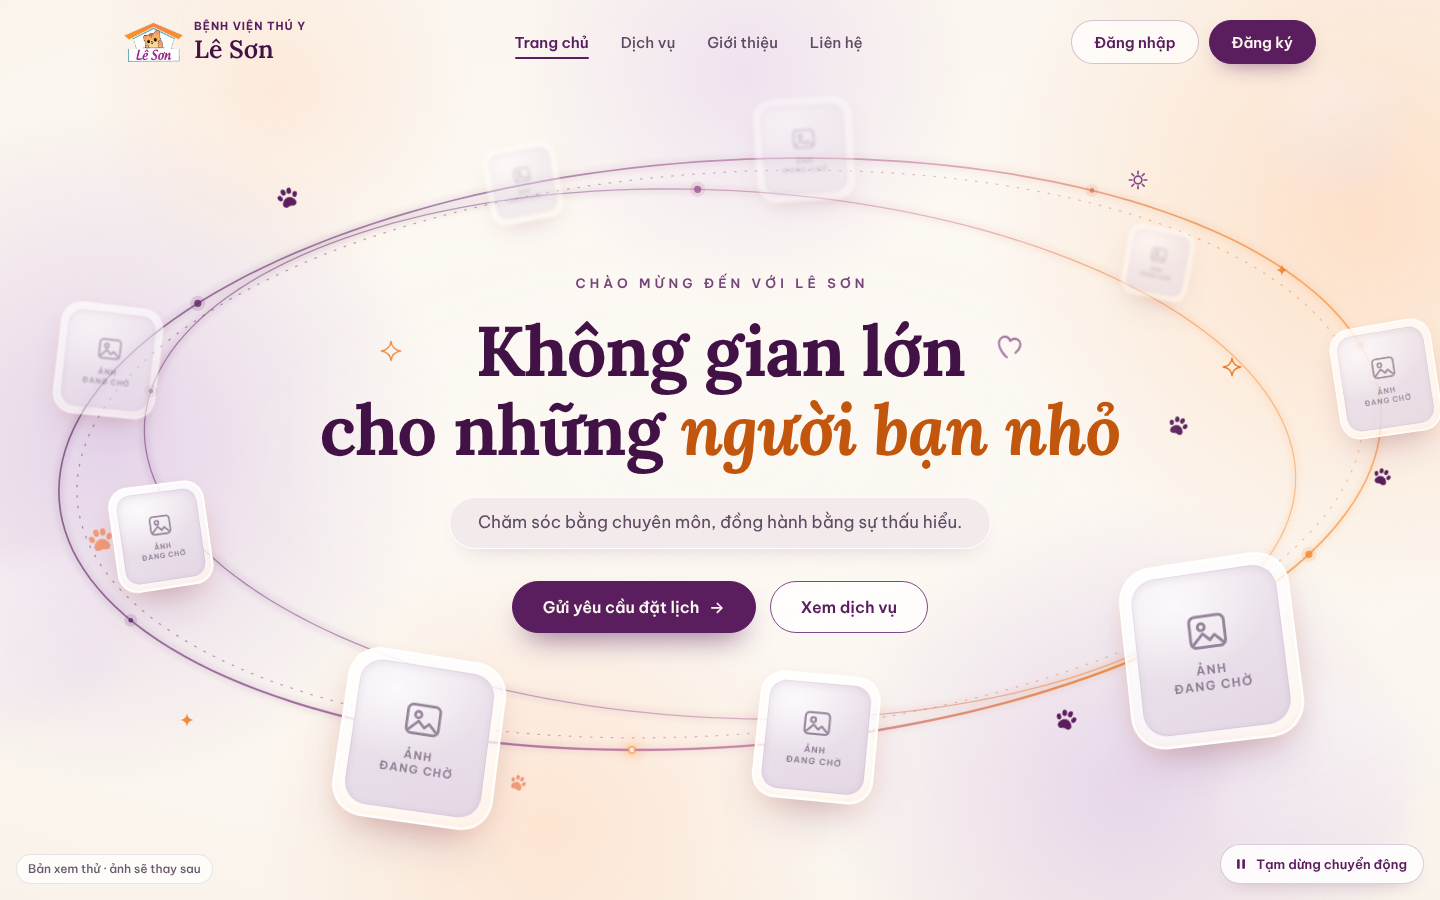
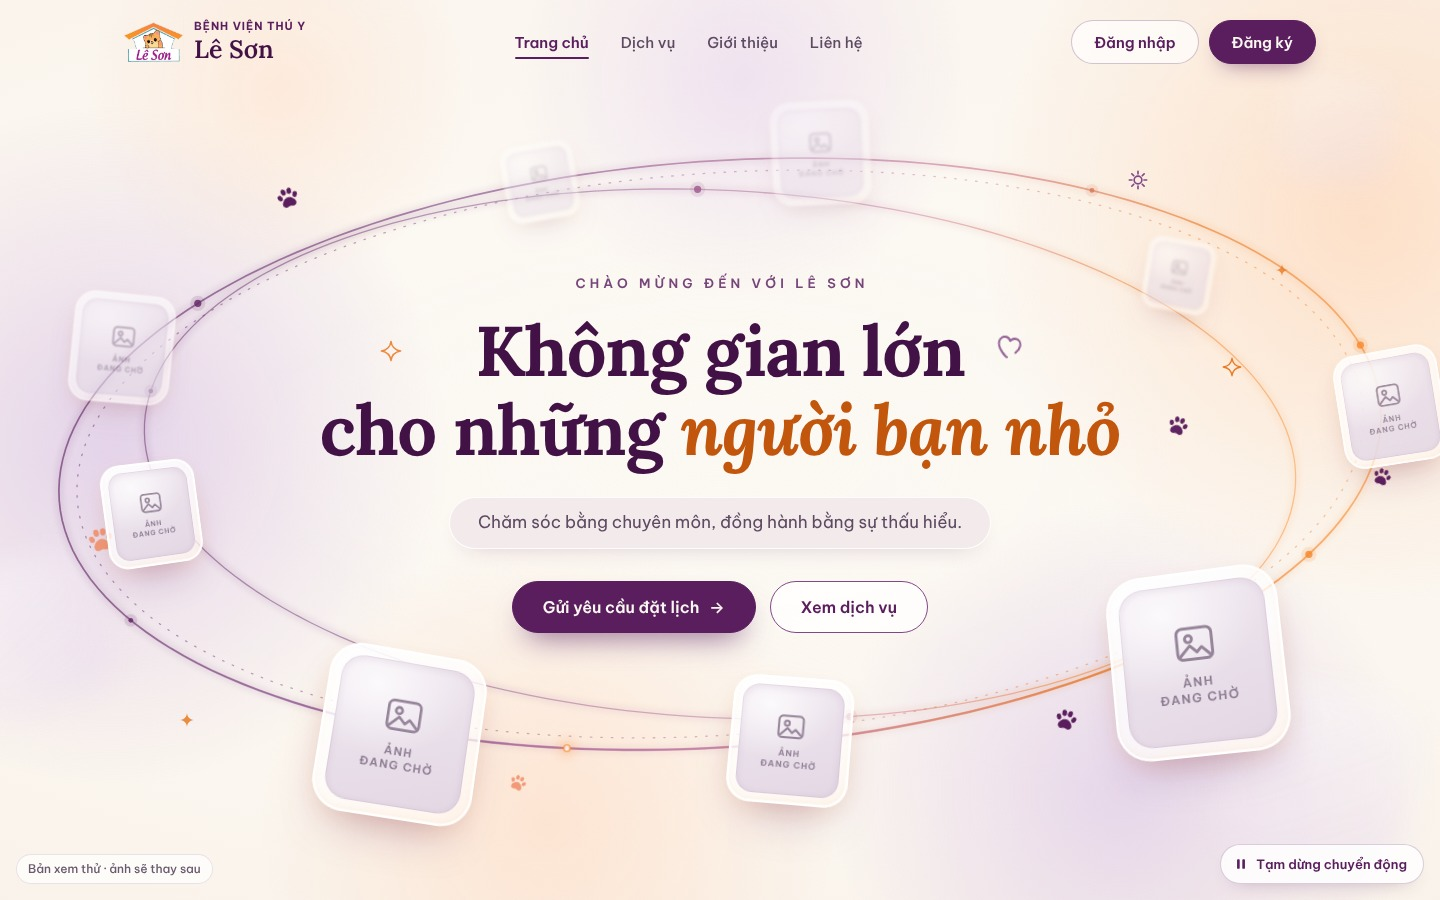
docs: Hero khung anh bay vong ban 2 - khung di theo luong khi luot qua chu
Thay mot khung don le bang hai dong khung doi cho nhau (3 khung moi dong tren desktop,
2 tren mobile). Cap nhat HTML, anh dong, anh tinh va README.

Claude-Session: https://claude.ai/code/session_01RdR2xeeUL4Rz15FkyvBsuM

diff --git a/docs/de-xuat-hero-quy-dao/hero-quy-dao.html b/docs/de-xuat-hero-quy-dao/hero-quy-dao.html
@@ -300,7 +300,7 @@
     content: "";
     position: absolute; z-index: -2;
     inset: -14% -10%;
-    background: radial-gradient(closest-side, rgba(var(--cream-rgb), .8) 0%, rgba(var(--cream-rgb), .6) 50%, rgba(var(--cream-rgb), 0) 100%);
+    background: radial-gradient(closest-side, rgba(var(--cream-rgb), .52) 0%, rgba(var(--cream-rgb), .38) 50%, rgba(var(--cream-rgb), 0) 100%);
     pointer-events: none;
   }
   .burst {
@@ -764,7 +764,7 @@
   var last = null, raf = 0, running = false;
   var reduced = mqReduce.matches;
   var userPaused = false, inView = true;
-  var excActive = null, nextExc = Infinity;
+  var excList = [], excQueue = [], nextExc = Infinity, settleUntil = 0;   // dòng khung đang lướt qua chữ + hàng đợi khung sắp đi theo
   var introSkipped = reduced;
   var introBase = null;      // thời điểm (đồng hồ mô phỏng) khung đầu tiên bay ra
   var readyAt = null;        // thời điểm chữ bắt đầu mở màn (sau khi có phông)
@@ -930,7 +930,7 @@
     if (countChanged) {
       assignPhases();
       frames.forEach(function (f) { f.exc = null; });
-      excActive = null;
+      excList = []; excQueue = [];
     }
 
     // Biến cho trang trí bám theo tiêu đề
@@ -1154,18 +1154,56 @@
     }
     return best;
   }
+  // Hai "dòng" khung đổi chỗ cho nhau: K khung ở mép trái nối đuôi nhau lướt qua sau chữ sang phải,
+  // đồng thời K khung ở mép phải lướt ngược sang trái. Mỗi cặp hoán đổi đúng vị trí nên đội hình luôn cân.
+  function pickStreams(leader, t) {
+    var K = G.mobile ? 2 : 3, la = angleOf(leader, t);
+    var A = frames.filter(function (f) { return f !== leader && f.active; })
+      .map(function (f) { return { f: f, d: mod(la - angleOf(f, t), TAU) }; })
+      .sort(function (x, y) { return x.d - y.d; })
+      .slice(0, K - 1).map(function (c) { return c.f; });
+    A = [leader].concat(A);
+    var used = A.slice(), pairs = [];
+    A.forEach(function (fa) {
+      var want = angleOf(fa, t) + Math.PI, best = null, bs = Infinity;
+      frames.forEach(function (fb) {
+        if (!fb.active || used.indexOf(fb) >= 0) return;
+        var sc = angDist(angleOf(fb, t), want) + (fb.ring === fa.ring ? 0 : 0.5);
+        if (sc < bs) { bs = sc; best = fb; }
+      });
+      if (!best) return;
+      used.push(best);
+      var da = mod(angleOf(best, t) - angleOf(fa, t), TAU);
+      pairs.push({ a: fa, b: best, da: da, db: TAU - da });
+    });
+    return pairs;
+  }
   function updateExcursions(t) {
-    if (excActive && t >= excActive.start + excActive.dur) {
-      excActive.f.phase += excActive.delta;   // nhập lại quỹ đạo ở phía đối diện, liền mạch
-      excActive.f.exc = null;
-      excActive = null;
+    for (var i = excList.length - 1; i >= 0; i--) {
+      var e = excList[i];
+      if (t >= e.start + e.dur) {
+        e.f.phase += e.delta;               // nhập lại quỹ đạo ở phía đối diện, liền mạch
+        e.f.exc = null;
+        excList.splice(i, 1);
+        settleUntil = t + 3;                // sau đợt lướt: đội hình tự giãn lại nhanh hơn một lúc
+      }
     }
-    if (!excActive && t > introEnd() && t >= nextExc) {
-      var f = pickExcursionFrame(t);
-      if (f) {
-        excActive = { f: f, start: t, dur: G.mobile ? 3.0 : 3.6, delta: chooseDelta(f, t) };
-        f.exc = excActive;
-        nextExc = t + 7 + rand() * 5;           // 7–12 giây
+    for (var j = excQueue.length - 1; j >= 0; j--) {
+      var q = excQueue[j];
+      if (t >= q.at) {
+        var ne = { f: q.f, start: t, dur: G.mobile ? 3.0 : 3.6, delta: q.delta };
+        q.f.exc = ne; excList.push(ne); excQueue.splice(j, 1);
+      }
+    }
+    if (!excList.length && !excQueue.length && t > introEnd() && t >= nextExc) {
+      var lead = pickExcursionFrame(t);
+      if (lead) {
+        var lag = G.mobile ? 0.7 : 0.9;
+        pickStreams(lead, t).forEach(function (pr, k) {
+          excQueue.push({ f: pr.a, at: t + k * lag, delta: pr.da });                 // dòng trái → phải
+          excQueue.push({ f: pr.b, at: t + k * lag + lag * 0.5, delta: pr.db });     // dòng phải → trái, lệch nửa nhịp
+        });
+        nextExc = t + 10 + rand() * 3;      // mỗi đợt dài khoảng 6 giây, nghỉ rồi lại có đợt sau
       } else {
         nextExc = t + 0.4;
       }
@@ -1178,10 +1216,11 @@
     var list = frames.filter(function (f) { return f.active; });
     var n = list.length;
     if (n < 2) return;
-    var ex = excActive;
+    var anch = excList.concat(excQueue), ex = anch.length > 0 || t < settleUntil;
     var cur = list.map(function (f) {
-      var isA = !!(ex && ex.f === f);
-      return { f: f, a: isA, s: mod(f.phase + G.speed * t + (isA ? ex.delta : 0), TAU) };
+      var ea = null;
+      for (var k = 0; k < anch.length; k++) if (anch[k].f === f) { ea = anch[k]; break; }
+      return { f: f, a: !!ea, s: mod(f.phase + G.speed * t + (ea ? ea.delta : 0), TAU) };
     }).sort(function (a, b) { return a.s - b.s; });
     var step = TAU / n, base, jA = -1;
     cur.forEach(function (c, j) { if (c.a) jA = j; });
@@ -1198,6 +1237,17 @@
       var d = wrapPi(base + j * step - c.s);
       c.f.phase += clamp(d * gain * dt, -lo, hi);
     });
+    // Chống chồng khung: hai khung kề nhau trên vòng không bao giờ được gần nhau hơn ~65% khoảng đều.
+    var minGap = step * 0.65, push = 0.6 * dt;
+    for (var j2 = 0; j2 < cur.length; j2++) {
+      var A = cur[j2], B = cur[(j2 + 1) % cur.length];
+      if (A === B) continue;
+      var g = mod(B.s - A.s, TAU);
+      if (g >= minGap) continue;
+      var m = Math.min(push, (minGap - g) * 0.5);
+      if (!A.a) A.f.phase -= m;
+      if (!B.a) B.f.phase += m;
+    }
   }
 
   /* ---------- Vòng lặp ---------- */
@@ -1237,7 +1287,7 @@
       stop();
       introSkipped = true;
       frames.forEach(function (f) { f.exc = null; });
-      excActive = null;
+      excList = []; excQueue = [];
       render(simT);               // bố cục tĩnh chọn sẵn: khung nằm trên quỹ đạo, hai khung lớn hai bên tiêu đề
     } else {
       if (introSkipped) beginIntro(simT);   // bật lại chuyển động: không phát lại intro

diff --git a/docs/de-xuat-hero-quy-dao/README.md b/docs/de-xuat-hero-quy-dao/README.md
@@ -1,13 +1,15 @@
-# Đề xuất Hero "khung ảnh bay vòng" (Claude, 15/10/2026)
+# Đề xuất Hero "khung ảnh bay vòng" (Claude, 15/10/2026, bản 2: khung đi theo luồng)
+
+**Bản 2 (theo góp ý chủ dự án: "ảnh di chuyển theo luồng chứ không đơn lẻ khi đi vào giữa"):** khi lướt qua chữ, thay vì một khung, giờ là cả một dòng khung nối đuôi nhau (xem mục "Bản xem thử chạy thế nào"). Hero bản 1 (một khung đơn lẻ) được thay bằng bản này.
 
 **Trạng thái:** bản xem thử làm theo ý tưởng của chủ dự án, **chờ chủ dự án xem và quyết định**. Đây chưa phải yêu cầu cho Antigravity và không thay đổi Hero hiện tại trên `antigravity/design`.
 
 **Xem nhanh:**
-- Ảnh động 14 giây: [xem-truoc-chuyen-dong.webp](xem-truoc-chuyen-dong.webp).
+- Ảnh động 16 giây (dòng khung lướt qua chữ từ khoảng giây 7,4 đến 12,5): [xem-truoc-chuyen-dong.webp](xem-truoc-chuyen-dong.webp).
 - Ảnh tĩnh:
   - [Desktop 1440](01-desktop-1440.png)
-  - [Lúc khung bay qua chữ](02-desktop-1440-khung-bay-qua-chu.png)
-  - [Mobile 390](03-mobile-390.png)
+  - [Lúc dòng khung đang lướt qua chữ](02-desktop-1440-dong-khung-qua-chu.png)
+  - [Mobile 390, 4 thời điểm trong đợt lướt](03-mobile-390-4-thoi-diem.png)
   - [Chế độ giảm chuyển động](04-desktop-1440-giam-chuyen-dong.png)
 - Bản chạy được: [hero-quy-dao.html](hero-quy-dao.html). Tải cả thư mục về rồi mở file này; cần mạng để tải font Google.
 - Ảnh tham khảo của chủ dự án: [anh-tham-khao-chu-du-an.webp](anh-tham-khao-chu-du-an.webp).
@@ -28,9 +30,10 @@ Thời gian tính từ lúc font tải xong. Trang chờ font tối đa 0,7 giâ
 | 0–1 s | Nhãn "CHÀO MỪNG ĐẾN VỚI LÊ SƠN", tiêu đề, câu phụ và hai nút hiện dần. Chưa có khung nào. |
 | 1–2,9 s | Các khung "ẢNH ĐANG CHỜ" bay ra từ phía sau chữ, mỗi khung cách nhau khoảng 0,1 s. |
 | Từ khoảng 3 s | Khung bay vòng liên tục trên hai quỹ đạo elip nghiêng. Khung ở phía sau nhỏ hơn, nhạt và mờ hơn. |
-| Khoảng 7,4 s, sau đó cứ 7–12 s một lần | Một khung bay vòng qua giữa, đi **phía sau** chữ rồi sang phía bên kia, mất khoảng 3,6 s. |
+| Khoảng 7,4 s, sau đó cứ 10–13 s một lần | **Một dòng khung** lướt qua giữa, đi **phía sau** chữ: 3 khung ở mép trái nối đuôi nhau (cách nhau khoảng 0,9 s) sang phải, đồng thời 3 khung ở mép phải lướt ngược sang trái, lệch nửa nhịp. Mỗi khung mất khoảng 3,6 s, cả đợt khoảng 5 s. Trên mobile mỗi dòng 2 khung. |
 
 - Số khung: 9 trên desktop, 8 trên tablet (768–992 px), 6 trên mobile.
+- Hai dòng đi hai đường cong ngược nhau (một dòng cong xuống dưới, một dòng cong lên trên) nên nhìn như hai dòng nước đan nhau phía sau chữ. Các cặp khung đổi chỗ đúng vị trí của nhau nên vòng quỹ đạo luôn cân đối, không bị dồn cục sau đợt lướt.
 - Chữ và nút luôn nằm trên khung. Khung không bắt được chuột hay chạm (`pointer-events: none`).
 
 ## Khác với ảnh tham khảo (cố ý)
@@ -50,9 +53,10 @@ Kiểm bằng Playwright trên Chromium, ngày 15/10/2026. Lượt kiểm cuối
 | Mục | Kết quả |
 |---|---|
 | Thứ tự xuất hiện | Chữ hiện đủ trước khi khung đầu tiên xuất hiện. Đúng ở 1440, 768 và 390. |
-| Chữ và nút luôn nằm trên | Ở 1440, 1024 và 390, lấy mẫu 120 điểm, mỗi 250 ms, trong 20 giây: 0 lần trúng khung. Bấm nút "Gửi yêu cầu đặt lịch" đúng lúc khung đang bay qua vẫn mở `#form-dat-lich`. |
+| Chữ và nút luôn nằm trên | Ở 1440 và 390, lấy mẫu 126 điểm trên chữ và nút trong lúc quỹ đạo và lúc dòng khung đang lướt qua: tất cả đều trúng chữ, không trúng khung. Bản 1 đã bấm thử nút "Gửi yêu cầu đặt lịch" lúc khung bay qua và mở đúng `#form-dat-lich`; bản 2 chỉ đo bằng `elementFromPoint`, chưa bấm lại. |
+| Khung không chồng nhau | Chạy mô phỏng 100 giây ở 1440, 1024 và 390: 0% thời gian có hai khung chồng nhau, trừ chính các khung đang trong đợt lướt, vì chúng gặp nhau phía sau chữ và hơi mờ. |
 | Tràn ngang | Không tràn ở 1440, 1280, 1024, 768, 390, 360 và 320. |
-| Tương phản | Tiêu đề 13,96:1. Chữ cam 4,25:1, đo trên nền thật lúc khung bay qua vẫn từ 3,86:1 trở lên. Các chữ khác từ 5,9:1 trở lên. |
+| Tương phản | Tiêu đề 13,96:1. Chữ cam 4,25:1 trên nền kem; đo gần đúng trên ảnh chụp lúc dòng khung đi qua phía sau, thấp nhất khoảng 3,68:1 (cần từ 3:1). Bản 2 giảm lớp sáng nền phía sau chữ để thấy khung rõ hơn. Các chữ khác từ 5,9:1 trở lên. |
 | Nút tạm dừng | Có `aria-pressed`, đổi nhãn "Tạm dừng chuyển động" / "Tiếp tục chuyển động", dùng được bằng Enter và Space. Chuyển động tự dừng khi chuyển sang tab khác. |
 | Giảm chuyển động (`prefers-reduced-motion`) | Chữ hiện ngay, khung đứng yên ở vị trí sắp sẵn, không chạy hiệu ứng, ẩn nút tạm dừng. |
 | Bàn phím | Mọi liên kết và nút có viền focus tím 3 px. Menu ☰ (từ 992 px trở xuống) mở và đóng được, đóng bằng Esc. |
@@ -65,9 +69,9 @@ Kiểm bằng Playwright trên Chromium, ngày 15/10/2026. Lượt kiểm cuối
    - Nếu duyệt, Claude viết yêu cầu chính thức trên `shared/requirements` cho Antigravity.
    - Lưu ý: Antigravity vừa đẩy `b013731` và `8bb446f` sửa Hero hiện tại (bản vòm cam, cuộn len). Claude **chưa kiểm** hai commit này.
 2. **Ngoại lệ hiệu ứng lặp.** Ngày 15/10 dự án đã yêu cầu bỏ hiệu ứng lặp ([yeu-cau-sua-hieu-ung-lap-antigravity.md](../yeu-cau-sua-hieu-ung-lap-antigravity.md)). Hero này chuyển động liên tục đúng theo ý tưởng. Nếu duyệt, cần ghi rõ đây là ngoại lệ riêng cho Hero, có nút tạm dừng và chế độ giảm chuyển động.
-3. **Độ rõ khi khung bay qua chữ.**
-   - Hiện tại: ở khoảng giữa đường (khoảng 1,5 s), lớp sáng phía sau chữ làm khung mờ đi để chữ vẫn dễ đọc.
-   - Nếu muốn thấy khung rõ hơn: giảm lớp sáng đó. Khi đó phải đo lại độ tương phản của chữ cam (cần từ 3:1 trở lên).
+3. **Số khung trong dòng và độ rõ.**
+   - Hiện tại: 3 khung mỗi dòng, hai dòng ngược chiều, khung nhìn thấy mờ nhẹ phía sau chữ.
+   - Nếu muốn dòng dài hơn hoặc thưa hơn, hoặc chỉ một chiều: chỉnh được. Một chiều cần chạy chậm vòng quỹ đạo lại để dồn khung không bị chồng, nên hiện chọn hai chiều đổi chỗ.
 4. **Mobile từ 420 px trở xuống:** ẩn nút "Đăng nhập" ở đầu trang cho đủ chỗ; nút này vẫn có trong menu ☰. Chủ dự án có đồng ý không?
 5. **Ảnh thật:** khi có ảnh, cần 9 ảnh tỉ lệ gần vuông (khung khoảng 1:1,06), thấy rõ con vật hoặc không gian bệnh viện.
 
@@ -79,4 +83,5 @@ Kiểm bằng Playwright trên Chromium, ngày 15/10/2026. Lượt kiểm cuối
 - **Mobile:** hai khung ở dải trên, phía sau, chạy rất chậm, có lúc trông như đứng yên. Có thể tăng tốc nếu chủ dự án muốn.
 - **Logo:** file PNG có nhiều viền trong suốt nên trông nhỏ. Nên có bản logo xuất sạch.
 - **Liên kết:** "Đăng nhập" và "Đăng ký" trỏ tạm `#dang-nhap` và `#dang-ky` vì chưa có trang. "Gửi yêu cầu đặt lịch" trỏ `#form-dat-lich` (HOÃN ĐÃ CHỐT).
+- **Bản 2 chưa kiểm lại đủ như bản 1:** bản 1 có thêm lượt kiểm độc lập bằng agent khác; bản 2 chỉ do tôi tự chạy lại bộ kiểm cũ (ALL PASS: thứ tự xuất hiện, tràn ngang ở 7 cỡ màn hình, nút tạm dừng, tab ẩn, giảm chuyển động, focus, console) cùng đo chồng khung. Chưa đo lại độ tương phản đầy đủ và chưa chạy lại ở 768 và 360.
 - **Phạm vi:** đây là bản xem thử độc lập, chưa ghép vào `demo/` của Antigravity.
